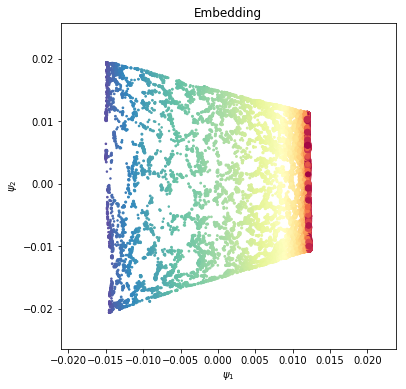
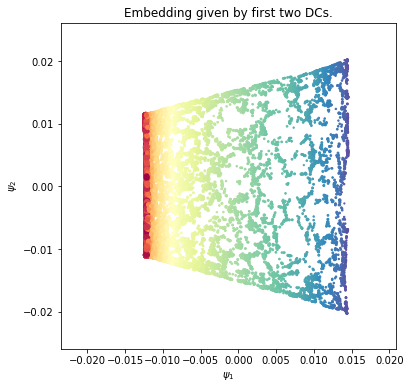
updated doc of swiss roll notebook accordingly.

Changed region(s): [[0.2365, 0.1542, 0.8571, 0.8021], [0.0591, 0.0617, 0.9754, 0.9871], [0.2956, 0.0, 0.798, 0.0617]]

diff --git a/docs/jupyter notebook tutorials/Swiss_Roll/Swiss_Roll.rst b/docs/jupyter notebook tutorials/Swiss_Roll/Swiss_Roll.rst
@@ -77,7 +77,7 @@ performance but decrease accuracy.
 
 .. code:: python
 
-    mydmap.epsilon
+    mydmap.epsilon_fitted
 
 
 
@@ -173,11 +173,11 @@ first two diffusion coordinates correlate with :math:`\phi` and
 .. parsed-literal::
 
     Correlation between \phi and \psi_1
-    [[ 1.         -0.92060758]
-     [-0.92060758  1.        ]]
+    [[ 1.          0.92202403]
+     [ 0.92202403  1.        ]]
     Correlation between Z and \psi_2
-    [[ 1.         -0.96447642]
-     [-0.96447642  1.        ]]
+    [[ 1.         -0.96896173]
+     [-0.96896173  1.        ]]
 
 
 
